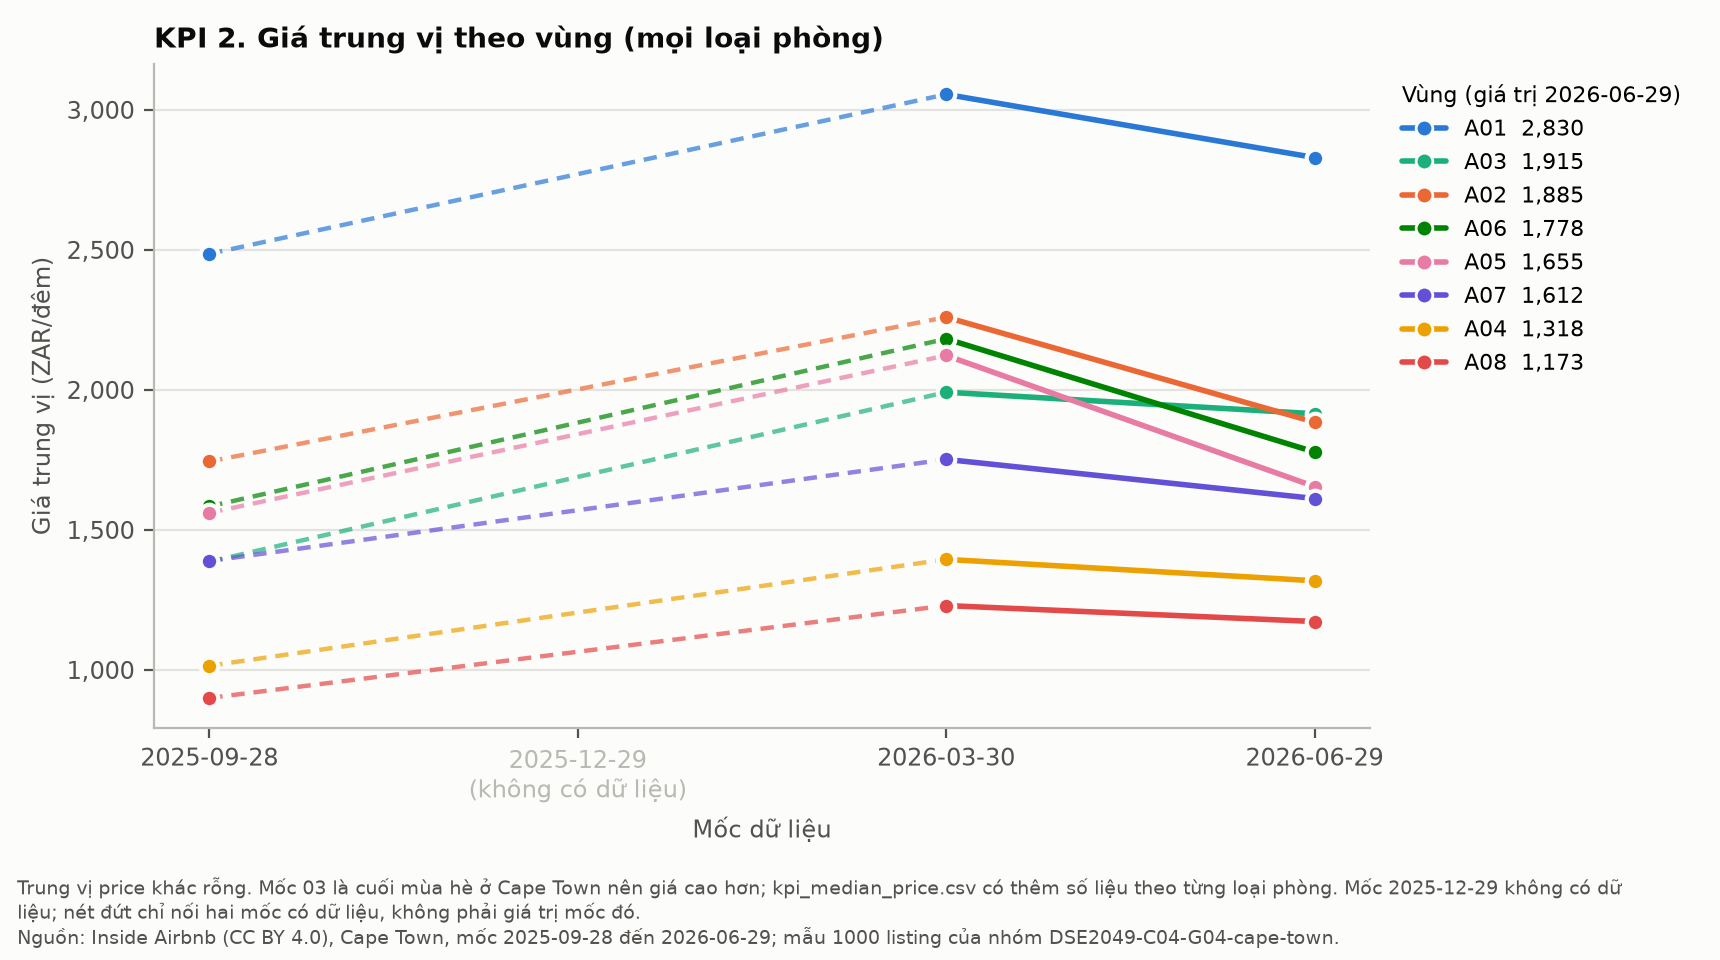
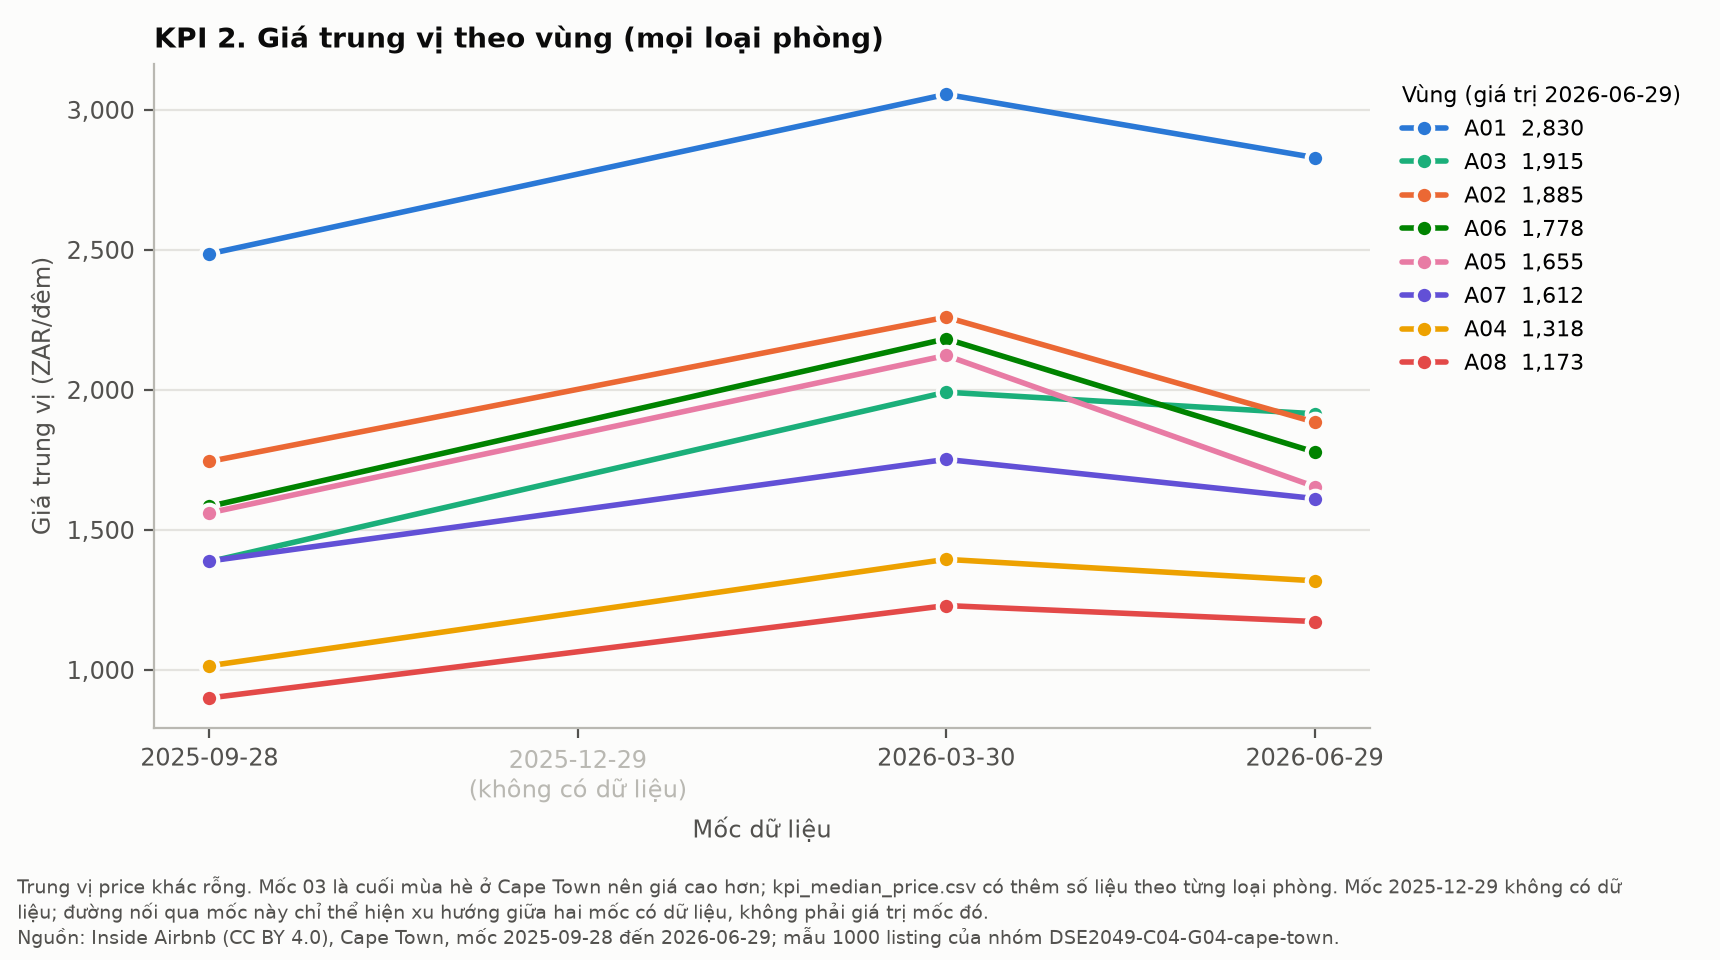
viz.py: 150 lines; KPI 2/3 line charts use solid lines throughout
- Connected-dot charts now draw one solid line per area (no dashed segment
  across the snapshot without price data); the tick still says "không có dữ
  liệu" and the caption explains the line only shows the trend between snapshots
- Code shortened 215 -> 150 lines; fig1, fig4, fig5, fig6 PNGs are byte-identical
  to the previous version

Claude-Session: https://claude.ai/code/session_01874EwekgaViw6qqrNFpfS6

diff --git a/src/viz.py b/src/viz.py
@@ -1,215 +1,150 @@
 """Vẽ 5 hình KPI + 1 hình đánh giá LLM vào figures/ (chỉ đọc kết quả có sẵn): python src/viz.py configs/cape_town.yaml"""
 import sys
 import textwrap
-
 import matplotlib
 import numpy as np
 import pandas as pd
 import yaml
-from matplotlib.colors import LinearSegmentedColormap
-from matplotlib.lines import Line2D
-
 from download import ROOT
-
 matplotlib.use("Agg")
 import matplotlib.pyplot as plt  # noqa: E402
 
 P, FIG = ROOT / "data" / "processed", ROOT / "figures"
-BG, INK, INK2, GRID, MUTED = "#fcfcfb", "#0b0b0b", "#52514e", "#e4e3df", "#b9b8b2"
+BG, INK, INK2, GRID, MUTED, DASH = "#fcfcfb", "#0b0b0b", "#52514e", "#e4e3df", "#b9b8b2", (0, (3, 2))
 SERIES = ["#2a78d6", "#eb6834", "#1baf7a", "#eda100", "#e87ba4", "#008300", "#6250d6", "#e34948"]  # A01..A08, cố định
-SEQ = LinearSegmentedColormap.from_list("blue", ["#cde2fb", "#86b6ef", "#3987e5", "#256abf", "#184f95", "#0d366b"])
-TIERS = ["#86b6ef", "#2a78d6", "#104281"]  # 3 nhóm doanh thu: xanh sáng -> tối
-SENT = {"negative": "#e34948", "mixed": MUTED, "positive": SERIES[0]}
+SEQ = matplotlib.colors.LinearSegmentedColormap.from_list("b", ["#cde2fb", "#86b6ef", "#3987e5", "#256abf", "#184f95", "#0d366b"])
+TIERS, SENT = ["#86b6ef", "#2a78d6", "#104281"], {"negative": "#e34948", "mixed": MUTED, "positive": SERIES[0]}
 NAMES = {"llm": "LLM (Gemini)", "baseline": "VADER baseline", "floor": "Luôn đoán lớp phổ biến nhất"}
-DASH = (0, (3, 2))
-plt.rcParams.update({
-    "figure.facecolor": BG, "axes.facecolor": BG, "savefig.facecolor": BG, "axes.edgecolor": MUTED, "axes.linewidth": 0.8,
-    "axes.labelcolor": INK2, "axes.titlecolor": INK, "axes.titlesize": 10, "axes.titleweight": "bold",
-    "axes.titlelocation": "left", "axes.spines.top": False, "axes.spines.right": False, "axes.grid": True,
-    "grid.color": GRID, "grid.linewidth": 0.8, "axes.axisbelow": True, "xtick.color": INK2, "ytick.color": INK2,
-    "font.size": 8.5, "legend.frameon": False, "lines.linewidth": 2, "lines.solid_capstyle": "round",
-    "lines.solid_joinstyle": "round"})
-
+plt.rcParams.update({f"axes.{a}": v for a, v in dict(facecolor=BG, edgecolor=MUTED, linewidth=0.8, labelcolor=INK2,
+    titlecolor=INK, titlesize=10, titleweight="bold", titlelocation="left", grid=True, axisbelow=True).items()} | {
+    "figure.facecolor": BG, "savefig.facecolor": BG, "axes.spines.top": False, "axes.spines.right": False, "grid.color": GRID,
+    "grid.linewidth": 0.8, "xtick.color": INK2, "ytick.color": INK2, "font.size": 8.5, "legend.frameon": False,
+    "lines.linewidth": 2, "lines.solid_capstyle": "round", "lines.solid_joinstyle": "round"})
 
 def kpi(name, level="analysis_area"):
-    d = pd.read_csv(P / f"kpi_{name}.csv", dtype={"snapshot": str})
-    return d[d["level"] == level].copy()
-
-
+    return (d := pd.read_csv(P / f"kpi_{name}.csv", dtype={"snapshot": str}))[d["level"] == level].copy()
 def k(v, _=None):  # 83,400 -> 83k; dưới 10,000 giữ nguyên
     return f"{v / 1000:,.0f}k" if abs(v) >= 10_000 else f"{v:,.0f}"
-
-
 def note(ax, s, xy, dx, dy=0, **kw):  # chữ lệch (dx, dy) điểm ảnh so với xy
     ax.annotate(s, xy, xytext=(dx, dy), textcoords="offset points", **{"fontsize": 8, "color": INK2, **kw})
 
-
 def fig1_hibernation_heatmap(cfg):
     piv = kpi("hibernation_rate").pivot(index="group", columns="snapshot", values="value").sort_index() * 100
-    f, ax = plt.subplots(figsize=(7, 5))
+    (r, c), (f, ax) = piv.shape, plt.subplots(figsize=(7, 5))
     im = ax.imshow(piv.values, cmap=SEQ, aspect="auto", vmin=0, vmax=np.ceil(piv.values.max() / 5) * 5)
     for (i, j), v in np.ndenumerate(piv.values):
         ax.text(j, i, f"{v:.1f}%", ha="center", va="center", fontsize=8.5, color="white" if v > 0.55 * im.get_clim()[1] else INK)
-    r, c = piv.shape
     ax.set_xticks(range(c), piv.columns), ax.set_yticks(range(r), piv.index)
     ax.set_xticks(np.arange(c + 1) - 0.5, minor=True), ax.set_yticks(np.arange(r + 1) - 0.5, minor=True)
     ax.grid(False), ax.grid(which="minor", color=BG, linewidth=2), ax.tick_params(which="minor", length=0)  # khe 2px
     [s.set_visible(False) for s in ax.spines.values()]
     ax.set(xlabel="Mốc dữ liệu", ylabel="Vùng", title="KPI 1. Tỉ lệ listing \"ngủ đông\" theo vùng và mốc")
-    cb = f.colorbar(im, ax=ax, shrink=0.85)
-    cb.set_label("Tỉ lệ ngủ đông (%)", color=INK2), cb.outline.set_visible(False)
+    (cb := f.colorbar(im, ax=ax, shrink=0.85)).set_label("Tỉ lệ ngủ đông (%)", color=INK2), cb.outline.set_visible(False)
     return f, ("Ngủ đông = estimated_occupancy_l365d bằng 0 đêm. Cột này Inside Airbnb ước tính từ số review, "
                "nên listing mới mở trong năm cũng bị tính là ngủ đông.")
 
-
-def connected_dots(d, title, ylabel, cfg, caption):
-    """Mỗi vùng một đường; mốc thiếu dữ liệu vẫn có vạch trên trục, đoạn nối qua nó vẽ nét đứt."""
-    snaps = [str(s) for s in cfg["snapshots"]]
-    have = [s for s in snaps if s in set(d["snapshot"])]
-    miss = [s for s in snaps if s not in have]
-    col = {g: SERIES[i % len(SERIES)] for i, g in enumerate(sorted(d["group"].unique()))}
-    f, ax = plt.subplots(figsize=(8.6, 4.8))
-    last = d[d["snapshot"] == have[-1]].set_index("group")["value"].sort_values(ascending=False)
-    for g in last.index:  # thứ tự theo giá trị mốc cuối: chú giải khớp thứ tự đường
-        r = d[d["group"] == g].set_index("snapshot")["value"].reindex(have)
-        for a, b in zip(have, have[1:]):
-            gap = snaps.index(b) - snaps.index(a) > 1
-            ax.plot([snaps.index(a), snaps.index(b)], [r[a], r[b]], color=col[g], ls=DASH if gap else "-",
-                    lw=1.6 if gap else 2, alpha=0.7 if gap else 1, zorder=2)
-        ax.scatter([snaps.index(s) for s in have], r.values, s=40, color=col[g], edgecolor=BG, linewidth=1.5, zorder=3)
+def lines(cfg, d, title, ylabel, caption):  # KPI 2, 3: đường liền qua các mốc có dữ liệu
+    snaps, (f, ax) = [str(s) for s in cfg["snapshots"]], plt.subplots(figsize=(8.6, 4.8))
+    have, col = [s for s in snaps if s in set(d["snapshot"])], dict(zip(sorted(d["group"].unique()), SERIES))
+    miss, last = [s for s in snaps if s not in have], d[d["snapshot"] == have[-1]].set_index("group")["value"]
+    for g, v in last.sort_values(ascending=False).items():  # theo giá trị mốc cuối: chú giải khớp thứ tự đường
+        ax.plot([snaps.index(s) for s in have], d[d["group"] == g].set_index("snapshot")["value"].reindex(have),
+                color=col[g], marker="o", ms=6.3, mec=BG, mew=1.5, label=f"{g}  {k(v)}")
     ax.set_xticks(range(len(snaps)), [f"{s}\n(không có dữ liệu)" if s in miss else s for s in snaps])
-    [t.set_color(MUTED) for t, s in zip(ax.get_xticklabels(), snaps) if s in miss]
-    ax.grid(axis="x", visible=False), ax.yaxis.set_major_formatter(plt.FuncFormatter(k))
-    ax.set(xlabel="Mốc dữ liệu", ylabel=ylabel, title=title)
-    ax.legend(handles=[Line2D([], [], color=col[g], ls="-", marker="o", markeredgecolor=BG, label=f"{g}  {k(v)}")
-                       for g, v in last.items()], title=f"Vùng (giá trị {have[-1]})", loc="upper left",
-              bbox_to_anchor=(1.01, 1), fontsize=8, title_fontsize=8, alignment="left")
-    return f, caption + (f" Mốc {', '.join(miss)} không có dữ liệu; nét đứt chỉ nối hai mốc có dữ liệu, "
-                         "không phải giá trị mốc đó." if miss else "")
-
-
-def fig2_median_price(cfg):
-    d = kpi("median_price")
-    return connected_dots(d[d["room_type"] == "all"], "KPI 2. Giá trung vị theo vùng (mọi loại phòng)",
-                          f"Giá trung vị ({cfg['currency']}/đêm)", cfg, "Trung vị price khác rỗng. Mốc 03 là cuối mùa hè "
-                          "ở Cape Town nên giá cao hơn; kpi_median_price.csv có thêm số liệu theo từng loại phòng.")
-
-
-def fig3_median_revenue(cfg):
-    return connected_dots(kpi("median_revenue"), "KPI 3. Doanh thu ước tính trung vị mỗi listing mỗi năm",
-                          f"Doanh thu trung vị ({cfg['currency']}/năm)", cfg,
-                          "Trung vị estimated_revenue_l365d (ước tính của Inside Airbnb), tính cả listing doanh thu 0.")
-
+    [t.set_color(MUTED) for t, s in zip(ax.get_xticklabels(), snaps) if s in miss], ax.grid(axis="x", visible=False)
+    ax.yaxis.set_major_formatter(plt.FuncFormatter(k)), ax.set(xlabel="Mốc dữ liệu", ylabel=ylabel, title=title)
+    ax.legend(title=f"Vùng (giá trị {have[-1]})", loc="upper left", bbox_to_anchor=(1.01, 1), fontsize=8,
+              title_fontsize=8, alignment="left")
+    return f, caption + (f" Mốc {', '.join(miss)} không có dữ liệu; đường nối qua mốc này chỉ thể hiện xu hướng giữa "
+                         "hai mốc có dữ liệu, không phải giá trị mốc đó." if miss else "")
 
 def fig4_net_sentiment(cfg):
     d, tot = kpi("net_sentiment").sort_values("value", ascending=False), kpi("net_sentiment", "all").iloc[0]["value"]
     area = pd.read_csv(P / "listings_clean.csv", dtype=str).drop_duplicates("id", keep="last").set_index("id")["analysis_area"]
-    rv = pd.read_csv(P / "reviews_clean.csv", usecols=["id", "listing_id"], dtype=str)  # cùng phép nối như kpi.py
-    z = pd.read_csv(P / "llm_results.csv", dtype=str).query("status == 'ok'").merge(rv, left_on="review_id", right_on="id")
-    comp = pd.crosstab(z["listing_id"].map(area), z["sentiment"], normalize="index").reindex(d["group"]).fillna(0) * 100
-    comp = comp.reindex(columns=list(SENT), fill_value=0)
+    z = pd.read_csv(P / "llm_results.csv", dtype=str).query("status == 'ok'").merge(pd.read_csv(  # cùng phép nối như kpi.py
+        P / "reviews_clean.csv", usecols=["id", "listing_id"], dtype=str), left_on="review_id", right_on="id")
+    comp = (pd.crosstab(z["listing_id"].map(area), z["sentiment"], normalize="index").reindex(d["group"]).fillna(0) * 100
+            ).reindex(columns=list(SENT), fill_value=0)
     f, (a1, a2) = plt.subplots(1, 2, figsize=(10.5, 4.6), gridspec_kw={"width_ratios": [1.35, 1]}, sharey=True)
-    y = np.arange(len(d))
+    y, left = np.arange(len(d)), np.zeros(len(d))
     a1.hlines(y, d["ci_lo"], d["ci_hi"], color=SENT["positive"], lw=2.5, alpha=0.35)
     a1.scatter(d["value"], y, s=50, color=SENT["positive"], edgecolor=BG, linewidth=1.5, zorder=3)
-    for i, (v, n, hi) in enumerate(zip(d["value"], d["n"], d["ci_hi"])):
-        note(a1, f"{v:.2f}  n={n}", (hi, i), 6, va="center")
-    a1.axvline(tot, color=INK2, lw=1, ls=DASH)
-    a1.set_yticks(y, d["group"]), a1.set_ylim(len(d) - 0.5, -1.1)  # hàng trống phía trên cho nhãn toàn mẫu
+    [note(a1, f"{v:.2f}  n={n}", (hi, i), 6, va="center") for i, (v, n, hi) in enumerate(zip(d["value"], d["n"], d["ci_hi"]))]
+    a1.axvline(tot, color=INK2, lw=1, ls=DASH), a1.set_yticks(y, d["group"]), a1.set_ylim(len(d) - 0.5, -1.1)  # hàng trống trên
     note(a1, f"toàn mẫu {tot:.2f}", (tot, -0.8), 4, va="center"), a1.grid(axis="y", visible=False)
     a1.set(xlim=(min(0.6, d["ci_lo"].min() - 0.03), 1.1), xlabel="Cảm xúc ròng (−1 đến 1), trục đã phóng to",
            title="KPI 4. Cảm xúc ròng theo vùng, khoảng tin cậy 95%")
-    left = np.zeros(len(d))
     for lab, c in SENT.items():  # viền màu nền = khe 2px giữa các đoạn
         a2.barh(y, comp[lab].to_numpy(), left=left, height=0.55, color=c, edgecolor=BG, linewidth=2, label=lab)
         left = left + comp[lab].to_numpy()
-    for i, v in enumerate(comp["negative"]):
-        note(a2, f"{v:.0f}% neg", (100, i), 4, va="center")
+    [note(a2, f"{v:.0f}% neg", (100, i), 4, va="center") for i, v in enumerate(comp["negative"])]
     a2.set(xlim=(0, 112), xticks=range(0, 101, 20), xlabel="Tỉ lệ review (%)", title="Thành phần nhãn LLM")
     a2.grid(axis="y", visible=False), a2.legend(loc="upper center", bbox_to_anchor=(0.45, -0.14), ncols=3)
     return f, ("positive = +1, mixed = 0, negative = −1; trung bình trên review LLM gán nhãn thành công. Thanh ngang = "
                f"khoảng tin cậy 95% (bootstrap {cfg['eval']['bootstrap']} lần, lấy mẫu lại theo listing).\n"
                "Các khoảng chồng nhau nhiều: mẫu chưa đủ để xếp hạng chắc chắn mọi vùng.")
 
-
-def revenue_tiers(t):
-    """D = (Tmax - Tmin)/3; nhóm 1: T < Tmin + D; nhóm 2: Tmin + D <= T <= Tmax - D; nhóm 3: T > Tmax - D."""
-    d = (t.max() - t.min()) / 3
-    c1, c2 = t.min() + d, t.max() - d
-    return np.where(t < c1, 0, np.where(t <= c2, 1, 2)), c1, c2
-
-
 def fig5_occupied_nights_bubble(cfg):
-    last, pr = str(cfg["snapshots"][-1]), kpi("median_price")
-    m = pd.DataFrame({c: d[d["snapshot"] == last].set_index("group")["value"] for c, d in
-                      (("nights", kpi("median_occupied_nights")), ("price", pr[pr["room_type"] == "all"]),
-                       ("rev", kpi("median_revenue")))}).dropna()
-    tier, c1, c2 = revenue_tiers(m["rev"])
+    last, pr, cur = str(cfg["snapshots"][-1]), kpi("median_price"), cfg["currency"]
+    m = pd.DataFrame({c: d[d["snapshot"] == last].set_index("group")["value"] for c, d in (("nights", kpi(
+        "median_occupied_nights")), ("price", pr[pr["room_type"] == "all"]), ("rev", kpi("median_revenue")))}).dropna()
+    c1, c2 = (mn := m.min())["rev"] + (D := ((mx := m.max())["rev"] - mn["rev"]) / 3), mx["rev"] - D  # nhóm màu: xem chú thích
     L = pd.read_csv(P / "listings_clean.csv", dtype={"snapshot": str}).query("snapshot == @last")
-    ref_x = L.loc[L["estimated_occupancy_l365d"] > 0, "estimated_occupancy_l365d"].median()  # trung vị toàn mẫu
-    ref_y = L["price"].median()
-    f, ax = plt.subplots(figsize=(8.6, 5.6))
-    size = 2600 * m["rev"] / m["rev"].max()  # diện tích bóng tỉ lệ với doanh thu
-    ax.scatter(m["nights"], m["price"], s=size, c=[TIERS[t] for t in tier], alpha=0.85, edgecolor=BG, linewidth=2, zorder=3)
-    for (g, r), s in zip(m.iterrows(), size):
-        rad = np.sqrt(s / np.pi)  # bán kính (điểm ảnh): nhãn sát mép bóng
-        note(ax, g, (r["nights"], r["price"]), rad + 3, 4, fontsize=9, fontweight="bold", color=INK, va="bottom")
-        note(ax, f"{k(r['rev'])}/năm", (r["nights"], r["price"]), rad + 3, -2, va="top")
+    (f, ax), size = plt.subplots(figsize=(8.6, 5.6)), 2600 * m["rev"] / m["rev"].max()  # diện tích bóng tỉ lệ với doanh thu
+    ref_x, ref_y = L.loc[L["estimated_occupancy_l365d"] > 0, "estimated_occupancy_l365d"].median(), L["price"].median()
+    ax.scatter(m["nights"], m["price"], s=size, c=[TIERS[int(t >= c1) + int(t > c2)] for t in m["rev"]], alpha=0.85,
+               edgecolor=BG, linewidth=2, zorder=3)
+    for (g, r), s in zip(m.iterrows(), size):  # nhãn sát mép bóng (bán kính tính bằng điểm ảnh)
+        note(ax, g, (r["nights"], r["price"]), np.sqrt(s / np.pi) + 3, 4, fontsize=9, fontweight="bold", color=INK, va="bottom")
+        note(ax, f"{k(r['rev'])}/năm", (r["nights"], r["price"]), np.sqrt(s / np.pi) + 3, -2, va="top")
     ax.axvline(ref_x, color=INK2, lw=1, ls=DASH, zorder=1), ax.axhline(ref_y, color=INK2, lw=1, ls=DASH, zorder=1)
-    ax.set(xlim=(20, max(105, m["nights"].max() + 15)),
-           ylim=(min(900, m["price"].min() - 250), max(3200, m["price"].max() + 300)))
-    (x0, x1), (y0, y1) = ax.get_xlim(), ax.get_ylim()
-    for x, y, s in ((x0, y1, "Giá cao, ít đêm"), (x1, y1, "Giá cao, nhiều đêm"), (x0, y0, "Giá thấp, ít đêm"),
-                    (x1, y0, "Giá thấp, nhiều đêm")):
-        note(ax, s, (x, y), 6 if x == x0 else -6, -6 if y == y1 else 6, ha="left" if x == x0 else "right",
-             va="top" if y == y1 else "bottom", color=MUTED)
-    ax.yaxis.set_major_formatter(plt.FuncFormatter(k)), ax.set(xlabel="Số đêm có khách trung vị (đêm/năm, listing đang hoạt động)", ylabel=f"Giá trung vị ({cfg['currency']}/đêm)",
+    ax.set(xlim=(20, max(105, mx["nights"] + 15)), ylim=(min(900, mn["price"] - 250), max(3200, mx["price"] + 300)),
+           xlabel="Số đêm có khách trung vị (đêm/năm, listing đang hoạt động)", ylabel=f"Giá trung vị ({cur}/đêm)",
            title=f"KPI 5. Số đêm có khách, giá và doanh thu theo vùng, mốc {last}")
-    names = [f"Doanh thu < {k(c1)}/năm", f"Doanh thu {k(c1)} – {k(c2)}/năm", f"Doanh thu > {k(c2)}/năm"]
-    ax.legend(handles=[Line2D([], [], ls="", marker="o", markersize=9, color=c, label=n) for c, n in zip(TIERS, names)],
-              loc="upper center", bbox_to_anchor=(0.5, -0.12), ncols=3, fontsize=8, handletextpad=0.3)
+    (x0, x1), (y0, y1) = ax.get_xlim(), ax.get_ylim()
+    for (x, ha, sx), (y, va, sy, t) in [(a, b) for b in ((y1, "top", -6, "Giá cao"), (y0, "bottom", 6, "Giá thấp"))
+                                        for a in ((x0, "left", 6), (x1, "right", -6))]:
+        note(ax, f"{t}, {'ít' if ha == 'left' else 'nhiều'} đêm", (x, y), sx, sy, ha=ha, va=va, color=MUTED)
+    ax.yaxis.set_major_formatter(plt.FuncFormatter(k))
+    ax.legend(handles=[plt.Line2D([], [], ls="", marker="o", markersize=9, color=c, label=f"Doanh thu {n}/năm") for c, n in zip(
+        TIERS, (f"< {k(c1)}", f"{k(c1)} – {k(c2)}", f"> {k(c2)}"))], loc="upper center", bbox_to_anchor=(0.5, -0.12), ncols=3,
+        fontsize=8, handletextpad=0.3)
     return f, (f"Kích thước bóng tỉ lệ với doanh thu trung vị. Nhóm màu: D = (Tmax − Tmin)/3, T = doanh thu trung vị của vùng; "
                f"nhóm 1: T < Tmin + D ({k(c1)}); nhóm 2: Tmin + D ≤ T ≤ Tmax − D ({k(c2)}); nhóm 3: T > Tmax − D.\n"
-               f"Đường nét đứt: trung vị toàn mẫu ({ref_x:.0f} đêm; {ref_y:,.0f} {cfg['currency']}/đêm, mọi loại phòng).")
-
+               f"Đường nét đứt: trung vị toàn mẫu ({ref_x:.0f} đêm; {ref_y:,.0f} {cur}/đêm, mọi loại phòng).")
 
 def fig6_llm_vs_baseline(cfg):
-    raw = pd.read_csv(P / "eval_metrics.csv").query("group == 'all'")
+    raw, (f, ax) = pd.read_csv(P / "eval_metrics.csv").query("group == 'all'"), plt.subplots(figsize=(7.4, 3.8))
     e = raw[raw["method"].isin(NAMES)].pivot(index="method", columns="metric", values="value").loc[list(NAMES)]
-    n = int(raw.loc[raw["metric"] == "accuracy", "n"].max())
-    f, ax = plt.subplots(figsize=(7.4, 3.8))
-    for j, (key, c) in enumerate(zip(("accuracy", "macro_f1"), SERIES)):
-        y = np.arange(len(NAMES)) + (-0.17 if j == 0 else 0.17)
-        ax.hlines(y, e[f"{key}_ci_lo"], e[f"{key}_ci_hi"], color=c, lw=2.5, alpha=0.4)
+    for dy, key, c in ((-0.17, "accuracy", SERIES[0]), (0.17, "macro_f1", SERIES[1])):
+        ax.hlines(y := np.arange(len(NAMES)) + dy, e[f"{key}_ci_lo"], e[f"{key}_ci_hi"], color=c, lw=2.5, alpha=0.4)
         ax.scatter(e[key], y, s=46, color=c, edgecolor=BG, linewidth=1.5, zorder=3, label=key.replace("_", "-"))
-        for yy, vv in zip(y, e[key]):
-            note(ax, f"{vv:.2f}", (vv, yy), 0, 6, ha="center", color=INK)
+        [note(ax, f"{vv:.2f}", (vv, yy), 0, 6, ha="center", color=INK) for yy, vv in zip(y, e[key])]
     ax.set_yticks(range(len(NAMES)), list(NAMES.values())), ax.invert_yaxis(), ax.grid(axis="y", visible=False)
     ax.set(xlim=(0, 1.02), xlabel="Điểm trên nhãn tay (chấm = ước lượng, vạch = khoảng tin cậy 95% bootstrap)",
-           title=f"Gán nhãn cảm xúc so với {n} nhãn tay")
+           title=f"Gán nhãn cảm xúc so với {int(raw.loc[raw['metric'] == 'accuracy', 'n'].max())} nhãn tay")
     ax.legend(loc="lower right", bbox_to_anchor=(1, 1), ncols=2)
     return f, "Nhãn tay 97% positive nên macro-F1 chỉ dựa vào 3 review không phải positive; khoảng tin cậy rất rộng."
 
-
-FIGS = (fig1_hibernation_heatmap, fig2_median_price, fig3_median_revenue, fig4_net_sentiment,
-        fig5_occupied_nights_bubble, fig6_llm_vs_baseline)
-
+FIGS = {fn.__name__: fn for fn in (fig1_hibernation_heatmap, fig4_net_sentiment, fig5_occupied_nights_bubble,
+                                   fig6_llm_vs_baseline)} | {"fig2_median_price": lambda cfg: lines(
+    cfg, kpi("median_price").query("room_type == 'all'"), "KPI 2. Giá trung vị theo vùng (mọi loại phòng)", f"Giá trung vị "
+    f"({cfg['currency']}/đêm)", "Trung vị price khác rỗng. Mốc 03 là cuối mùa hè ở Cape Town nên giá cao hơn; "
+    "kpi_median_price.csv có thêm số liệu theo từng loại phòng."), "fig3_median_revenue": lambda cfg: lines(
+    cfg, kpi("median_revenue"), "KPI 3. Doanh thu ước tính trung vị mỗi listing mỗi năm", f"Doanh thu trung vị ({cfg['currency']}"
+    "/năm)", "Trung vị estimated_revenue_l365d (ước tính của Inside Airbnb), tính cả listing doanh thu 0.")}
 
 def main(config_path):
-    with open(config_path, encoding="utf-8") as fh:
-        cfg = yaml.safe_load(fh)
-    FIG.mkdir(exist_ok=True)
-    [p.unlink() for p in FIG.glob("fig*.png") if p.stem not in {fn.__name__ for fn in FIGS}]  # bỏ hình cũ không còn sinh ra
-    s = cfg["snapshots"]
-    src = f"Nguồn: Inside Airbnb (CC BY 4.0), Cape Town, mốc {s[0]} đến {s[-1]}; mẫu 1000 listing của nhóm {cfg['group_code']}."
-    for fn in FIGS:
+    cfg = yaml.safe_load(open(config_path, encoding="utf-8"))
+    FIG.mkdir(exist_ok=True), [p.unlink() for p in FIG.glob("fig*.png") if p.stem not in FIGS]  # bỏ hình cũ không còn sinh ra
+    src = (f"Nguồn: Inside Airbnb (CC BY 4.0), Cape Town, mốc {cfg['snapshots'][0]} đến {cfg['snapshots'][-1]}; "
+           f"mẫu 1000 listing của nhóm {cfg['group_code']}.")
+    for name, fn in FIGS.items():
         f, caption = fn(cfg)
         text = "\n".join(textwrap.fill(t, int(f.get_figwidth() * 19)) for t in f"{caption}\n{src}".split("\n"))
         f.text(0.01, 0.01, text, fontsize=6.8, va="bottom", color=INK2)
         f.tight_layout(rect=(0, ((text.count("\n") + 1) * 0.135 + 0.05) / f.get_figheight(), 1, 1))
-        f.savefig(FIG / f"{fn.__name__}.png", dpi=200), plt.close(f), print(f"[ok]   figures/{fn.__name__}.png")
-    return 0
-
+        f.savefig(FIG / f"{name}.png", dpi=200), plt.close(f), print(f"[ok]   figures/{name}.png")
 
 if __name__ == "__main__":
-    sys.exit(main(sys.argv[1] if len(sys.argv) > 1 else "configs/cape_town.yaml"))
+    main(sys.argv[1] if len(sys.argv) > 1 else "configs/cape_town.yaml")
